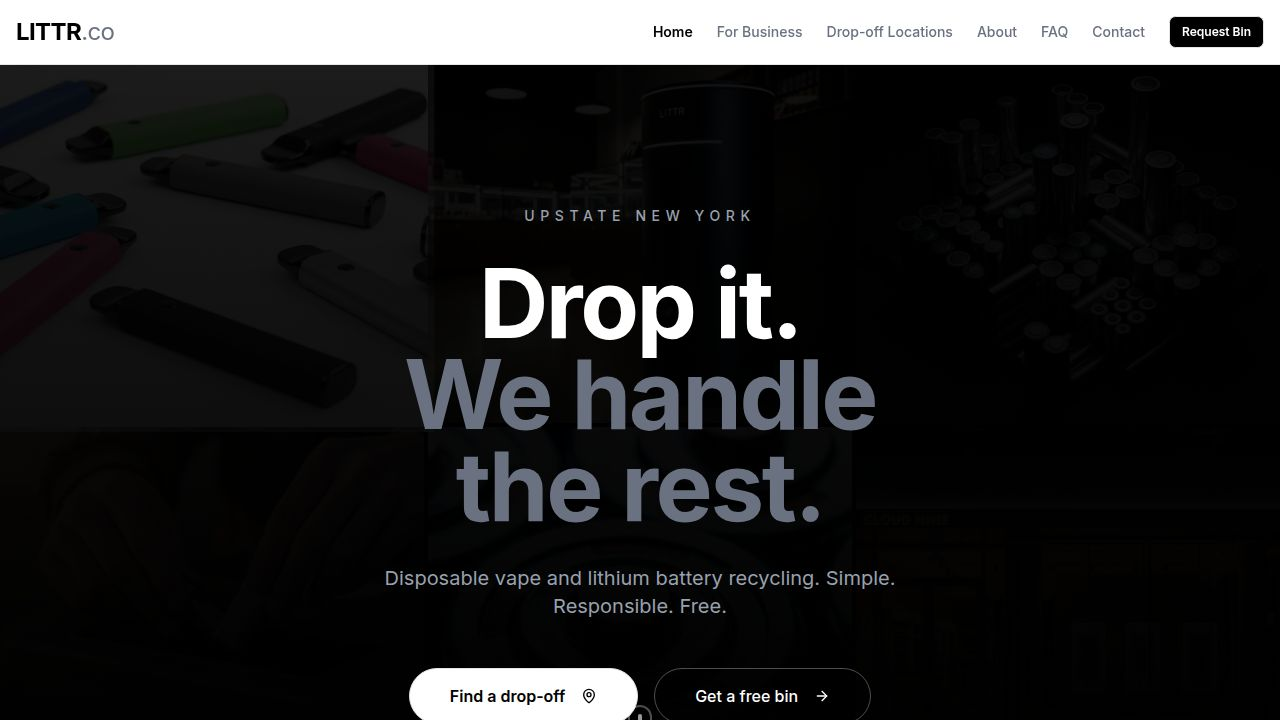
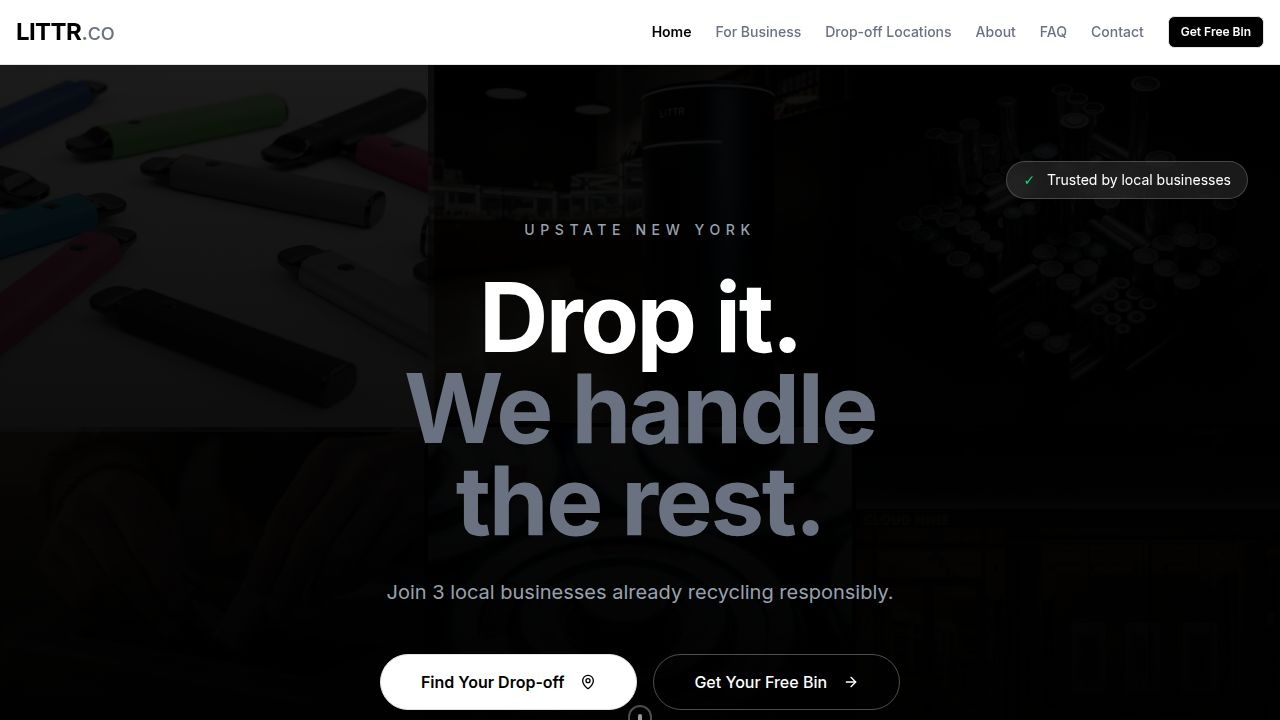
Enhance site with trust signals and mobile usability improvements
Implement a sticky mobile CTA, add trust badges, refine hero copy, and improve visual polish across the site.

Replit-Commit-Author: Agent
Replit-Commit-Session-Id: f97b7af5-d80e-4d00-a61b-e9179ddc64ad
Replit-Commit-Checkpoint-Type: intermediate_checkpoint
Replit-Commit-Event-Id: d4a1eacf-8eac-4ed5-95c0-dee5bb84c7fb
Replit-Commit-Screenshot-Url: https://storage.googleapis.com/screenshot-production-us-central1/90d26e03-2b98-43a8-bfaa-7dcc5fa7786a/f97b7af5-d80e-4d00-a61b-e9179ddc64ad/OLx2X67
Replit-Helium-Checkpoint-Created: true

diff --git a/client/src/pages/Home.tsx b/client/src/pages/Home.tsx
@@ -57,20 +57,27 @@ export default function Home() {
               <span className="text-gray-500">the rest.</span>
             </h1>
             <p className="text-xl text-gray-400 mb-12 max-w-lg mx-auto">
-              Disposable vape and lithium battery recycling. Simple. Responsible. Free.
+              Join 3 local businesses already recycling responsibly.
             </p>
             <div className="flex flex-col sm:flex-row gap-4 justify-center">
               <Link href="/dropoff">
                 <Button size="lg" className="bg-white text-black hover:bg-gray-100 text-base px-10 h-14 rounded-full font-semibold w-full sm:w-auto">
-                  Find a drop-off <MapPin className="ml-2 h-4 w-4" />
+                  Find Your Drop-off <MapPin className="ml-2 h-4 w-4" />
                 </Button>
               </Link>
               <Link href="/business">
                 <Button size="lg" variant="outline" className="border-white/30 text-white hover:bg-white/10 text-base px-10 h-14 rounded-full w-full sm:w-auto">
-                  Get a free bin <ArrowRight className="ml-2 h-4 w-4" />
+                  Get Your Free Bin <ArrowRight className="ml-2 h-4 w-4" />
                 </Button>
               </Link>
             </div>
+          </div>
+        </div>
+
+        {/* Floating Trust Badge */}
+        <div className="absolute top-24 right-8 z-20 hidden lg:block">
+          <div className="bg-white/10 backdrop-blur-sm border border-white/20 rounded-full px-4 py-2 text-white text-sm">
+            <span className="text-green-400 mr-2">✓</span> Trusted by local businesses
           </div>
         </div>
 
@@ -78,6 +85,25 @@ export default function Home() {
         <div className="absolute bottom-10 left-1/2 -translate-x-1/2 z-20">
           <div className="w-6 h-10 border-2 border-white/30 rounded-full flex justify-center pt-2">
             <div className="w-1 h-2 bg-white/60 rounded-full animate-bounce" />
+          </div>
+        </div>
+      </section>
+
+      {/* Trust Belt */}
+      <section className="py-4 bg-white border-b border-gray-100">
+        <div className="container mx-auto px-4">
+          <div className="flex flex-wrap justify-center items-center gap-4 md:gap-8 text-sm text-gray-600">
+            <span className="flex items-center gap-2">
+              <span className="text-green-500">●</span> 3 Partner Locations
+            </span>
+            <span className="hidden md:inline text-gray-300">•</span>
+            <span className="flex items-center gap-2">
+              <span className="text-green-500">●</span> 100% Free
+            </span>
+            <span className="hidden md:inline text-gray-300">•</span>
+            <span className="flex items-center gap-2">
+              <span className="text-green-500">●</span> EPA-Compliant Recycling
+            </span>
           </div>
         </div>
       </section>
@@ -165,28 +191,28 @@ export default function Home() {
           </div>
           
           <div className="grid grid-cols-2 md:grid-cols-4 gap-4 max-w-4xl mx-auto">
-            <div className="bg-white rounded-2xl p-6 text-center shadow-sm">
+            <div className="bg-white rounded-2xl p-6 text-center shadow-lg hover:scale-105 transition-transform duration-300 cursor-pointer">
               <div className="h-32 mb-4 rounded-xl overflow-hidden">
                 <img src={vapesImage} alt="Vapes" className="w-full h-full object-cover" />
               </div>
               <h3 className="font-semibold">Disposable Vapes</h3>
               <p className="text-xs text-green-600 mt-1">Accepted</p>
             </div>
-            <div className="bg-white rounded-2xl p-6 text-center shadow-sm">
+            <div className="bg-white rounded-2xl p-6 text-center shadow-lg hover:scale-105 transition-transform duration-300 cursor-pointer">
               <div className="h-32 mb-4 rounded-xl overflow-hidden">
                 <img src={batteriesImage} alt="Batteries" className="w-full h-full object-cover" />
               </div>
               <h3 className="font-semibold">Small Batteries</h3>
               <p className="text-xs text-green-600 mt-1">Accepted</p>
             </div>
-            <div className="bg-white rounded-2xl p-6 text-center shadow-sm">
+            <div className="bg-white rounded-2xl p-6 text-center shadow-lg hover:scale-105 transition-transform duration-300 cursor-pointer">
               <div className="h-32 mb-4 rounded-xl overflow-hidden bg-gray-100 flex items-center justify-center">
                 <span className="text-4xl">🔋</span>
               </div>
               <h3 className="font-semibold">Phone Batteries</h3>
               <p className="text-xs text-green-600 mt-1">Accepted</p>
             </div>
-            <div className="bg-white rounded-2xl p-6 text-center shadow-sm opacity-60">
+            <div className="bg-white rounded-2xl p-6 text-center shadow-lg opacity-60">
               <div className="h-32 mb-4 rounded-xl overflow-hidden bg-gray-100 flex items-center justify-center">
                 <span className="text-4xl">🚗</span>
               </div>
@@ -225,29 +251,35 @@ export default function Home() {
             <h2 className="text-4xl font-bold">Partner Shops</h2>
           </div>
           <div className="grid grid-cols-1 md:grid-cols-3 gap-6 max-w-4xl mx-auto">
-            <div className="group cursor-pointer">
-              <div className="relative h-48 rounded-xl overflow-hidden mb-4">
-                <img src={shopImage} alt="Elite Smoke Shop" className="w-full h-full object-cover group-hover:scale-105 transition-transform duration-300" />
+            <div className="group cursor-pointer shadow-lg rounded-xl hover:scale-105 transition-transform duration-300">
+              <div className="relative h-48 rounded-t-xl overflow-hidden">
+                <img src={shopImage} alt="Elite Smoke Shop" className="w-full h-full object-cover" />
                 <div className="absolute inset-0 bg-black/40 group-hover:bg-black/20 transition-colors" />
               </div>
-              <h3 className="font-semibold text-lg">Elite Smoke Shop</h3>
-              <p className="text-gray-400 text-sm">Rochester, NY</p>
+              <div className="p-4 bg-white rounded-b-xl">
+                <h3 className="font-semibold text-lg">Elite Smoke Shop</h3>
+                <p className="text-gray-400 text-sm">Rochester, NY</p>
+              </div>
             </div>
-            <div className="group cursor-pointer">
-              <div className="relative h-48 rounded-xl overflow-hidden mb-4">
-                <img src={binImage} alt="High End Smoke Shop" className="w-full h-full object-cover group-hover:scale-105 transition-transform duration-300" />
+            <div className="group cursor-pointer shadow-lg rounded-xl hover:scale-105 transition-transform duration-300">
+              <div className="relative h-48 rounded-t-xl overflow-hidden">
+                <img src={binImage} alt="High End Smoke Shop" className="w-full h-full object-cover" />
                 <div className="absolute inset-0 bg-black/40 group-hover:bg-black/20 transition-colors" />
               </div>
-              <h3 className="font-semibold text-lg">High End Smoke Shop</h3>
-              <p className="text-gray-400 text-sm">Rochester, NY</p>
+              <div className="p-4 bg-white rounded-b-xl">
+                <h3 className="font-semibold text-lg">High End Smoke Shop</h3>
+                <p className="text-gray-400 text-sm">Rochester, NY</p>
+              </div>
             </div>
-            <div className="group cursor-pointer">
-              <div className="relative h-48 rounded-xl overflow-hidden mb-4">
-                <img src={shopImage} alt="Red Eye Smoke Shop" className="w-full h-full object-cover group-hover:scale-105 transition-transform duration-300" />
+            <div className="group cursor-pointer shadow-lg rounded-xl hover:scale-105 transition-transform duration-300">
+              <div className="relative h-48 rounded-t-xl overflow-hidden">
+                <img src={shopImage} alt="Red Eye Smoke Shop" className="w-full h-full object-cover" />
                 <div className="absolute inset-0 bg-black/40 group-hover:bg-black/20 transition-colors" />
               </div>
-              <h3 className="font-semibold text-lg">Red Eye Smoke Shop</h3>
-              <p className="text-gray-400 text-sm">Rochester, NY</p>
+              <div className="p-4 bg-white rounded-b-xl">
+                <h3 className="font-semibold text-lg">Red Eye Smoke Shop</h3>
+                <p className="text-gray-400 text-sm">Rochester, NY</p>
+              </div>
             </div>
           </div>
           <div className="text-center mt-12">

diff --git a/client/src/components/MobileStickyCTA.tsx b/client/src/components/MobileStickyCTA.tsx
@@ -1,0 +1,33 @@
+import { useState, useEffect } from "react";
+import { Button } from "@/components/ui/button";
+import { MapPin } from "lucide-react";
+import { Link } from "wouter";
+
+export function MobileStickyCTA() {
+  const [isVisible, setIsVisible] = useState(false);
+
+  useEffect(() => {
+    const handleScroll = () => {
+      setIsVisible(window.scrollY > 300);
+    };
+
+    window.addEventListener("scroll", handleScroll);
+    return () => window.removeEventListener("scroll", handleScroll);
+  }, []);
+
+  if (!isVisible) return null;
+
+  return (
+    <div className="fixed bottom-0 left-0 right-0 z-50 md:hidden bg-black border-t border-white/10 p-4 animate-in slide-in-from-bottom-4">
+      <Link href="/dropoff">
+        <Button 
+          size="lg" 
+          className="w-full bg-white text-black hover:bg-gray-100 font-semibold h-12 rounded-full"
+          data-testid="button-mobile-dropoff"
+        >
+          Find Drop-off <MapPin className="ml-2 h-4 w-4" />
+        </Button>
+      </Link>
+    </div>
+  );
+}

diff --git a/client/src/components/layout/Header.tsx b/client/src/components/layout/Header.tsx
@@ -18,7 +18,7 @@ export function Header() {
   ];
 
   return (
-    <header className="sticky top-0 z-50 w-full border-b bg-background/80 backdrop-blur-md">
+    <header className="sticky top-0 z-50 w-full border-b bg-background/80 backdrop-blur-md shadow-sm">
       <div className="container mx-auto px-4 h-16 flex items-center justify-between">
         <Link href="/" className="flex items-center gap-2">
             <span className="font-bold tracking-tight text-2xl">LITTR<span className="font-normal text-gray-500">.co</span></span>
@@ -40,7 +40,7 @@ export function Header() {
           ))}
           <Link href="/business">
             <Button variant="default" size="sm" className="font-semibold">
-              Request Bin
+              Get Free Bin
             </Button>
           </Link>
         </nav>
@@ -73,7 +73,7 @@ export function Header() {
           ))}
           <Link href="/business">
             <Button className="w-full mt-2" onClick={() => setIsOpen(false)}>
-              Request a Bin
+              Get Free Bin
             </Button>
           </Link>
         </div>

diff --git a/client/src/pages/Business.tsx b/client/src/pages/Business.tsx
@@ -180,8 +180,8 @@ export default function Business() {
             <div>
               <Card className="shadow-xl border-0">
                 <CardHeader className="bg-black text-white rounded-t-xl p-8">
-                  <CardTitle className="text-2xl">Request a Free Bin</CardTitle>
-                  <CardDescription className="text-gray-400">Get started with LITTR today.</CardDescription>
+                  <CardTitle className="text-2xl">Get your bin in as little as 48 hours</CardTitle>
+                  <CardDescription className="text-gray-400">Join 3 Rochester businesses already partnering with LITTR</CardDescription>
                 </CardHeader>
                 <CardContent className="p-8">
                   <Form {...form}>
@@ -276,7 +276,7 @@ export default function Business() {
                         )}
                       />
                       <Button type="submit" size="lg" className="w-full h-14 text-lg font-bold rounded-full">
-                        Get My Free Bin
+                        Reserve My Free Bin
                       </Button>
                     </form>
                   </Form>

diff --git a/client/src/index.css b/client/src/index.css
@@ -55,6 +55,9 @@
   * {
     @apply border-border;
   }
+  html {
+    scroll-behavior: smooth;
+  }
   body {
     @apply font-sans antialiased bg-background text-foreground selection:bg-black selection:text-white;
   }

diff --git a/client/src/App.tsx b/client/src/App.tsx
@@ -12,6 +12,7 @@ import About from "@/pages/About";
 import Contact from "@/pages/Contact";
 import NotFound from "@/pages/not-found";
 import { Login } from "@/components/auth/Login";
+import { MobileStickyCTA } from "@/components/MobileStickyCTA";
 import AdminDashboard from "@/pages/admin/Dashboard";
 import StaffDashboard from "@/pages/staff/Dashboard";
 import PartnerDashboard from "@/pages/partner/Dashboard";
@@ -55,6 +56,7 @@ function Router() {
         <Route component={NotFound} />
       </Switch>
       {!isDashboard && <Footer />}
+      {!isDashboard && <MobileStickyCTA />}
     </>
   );
 }